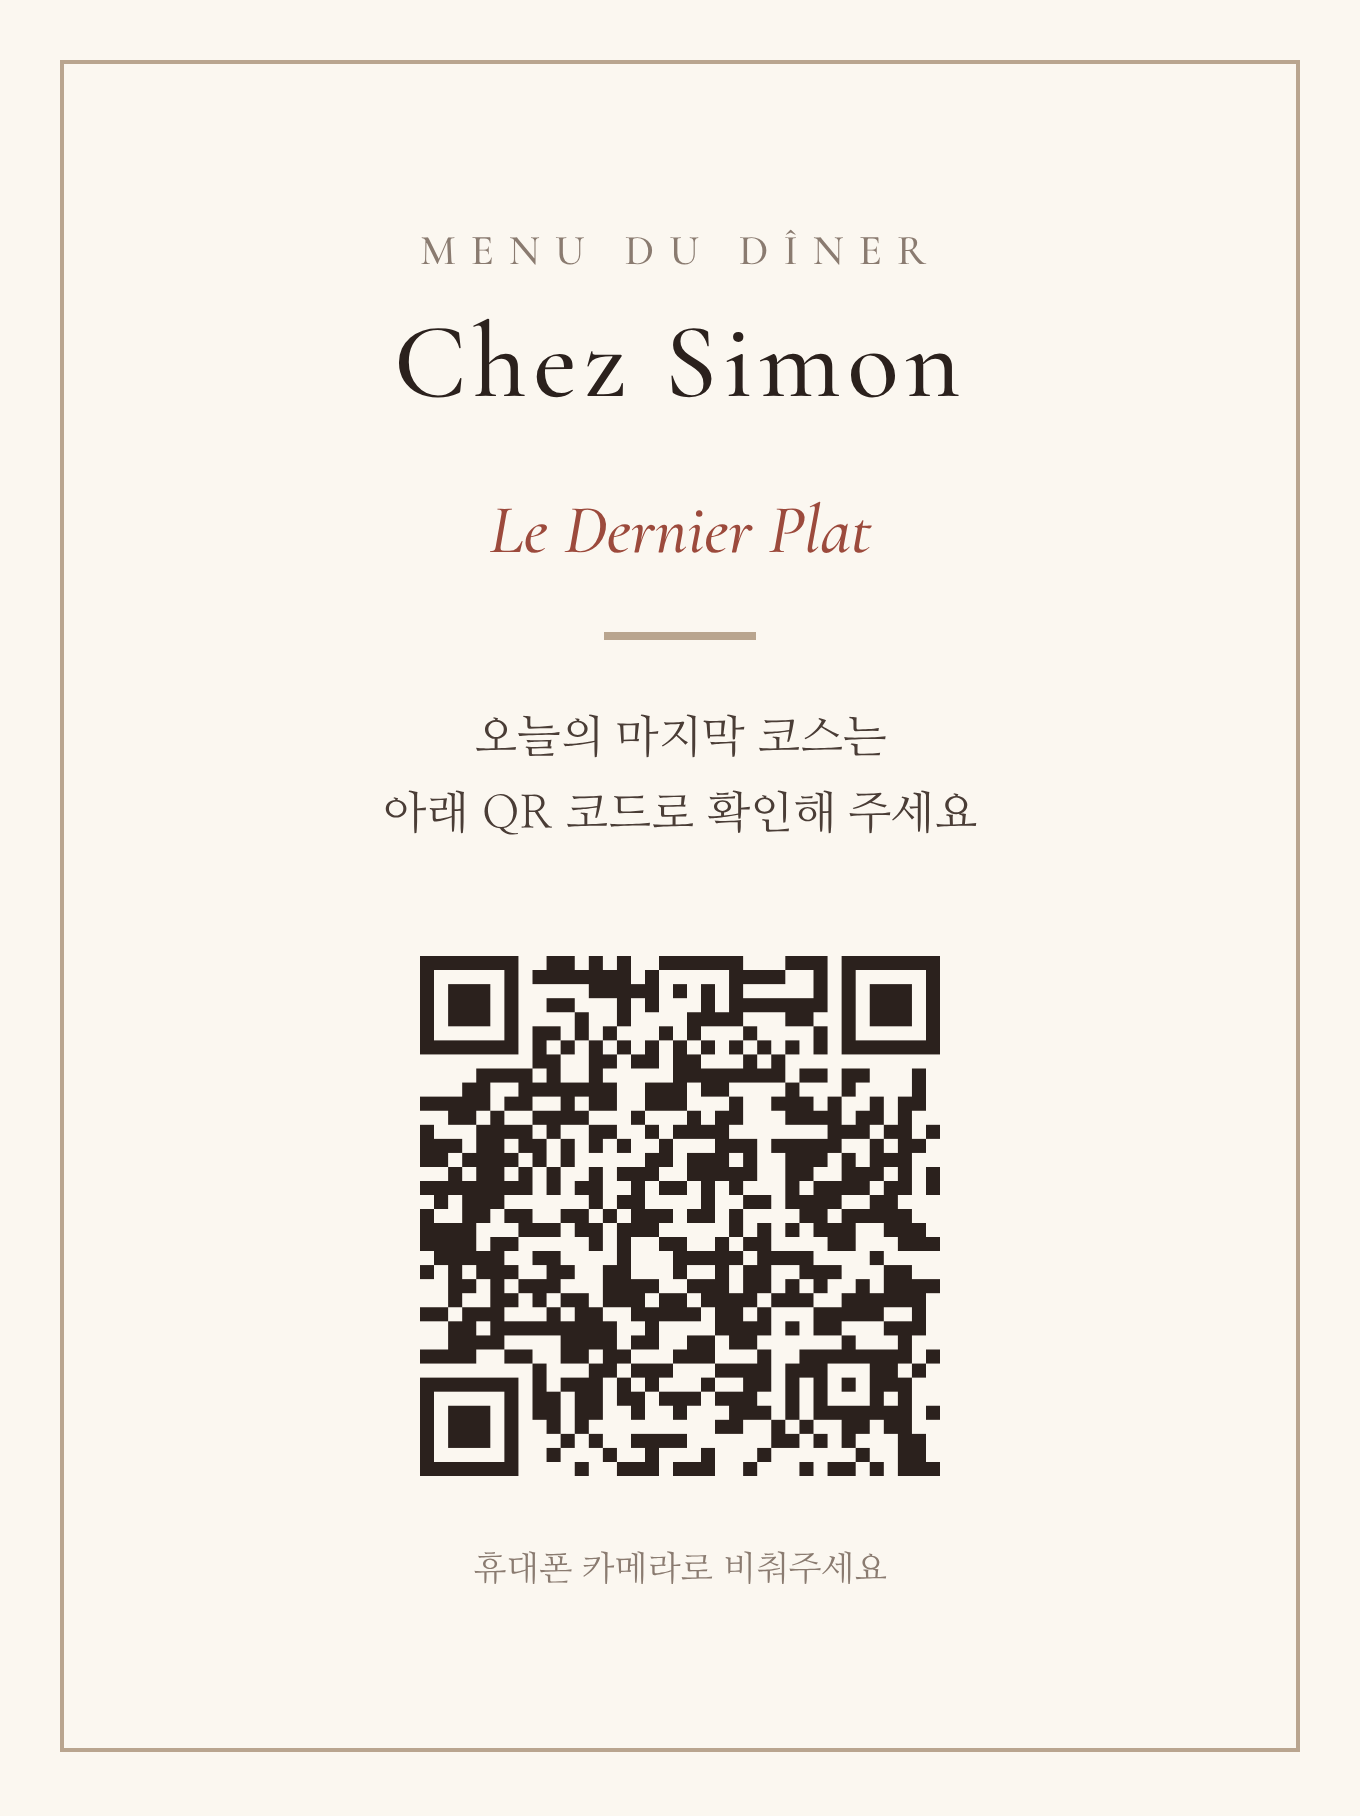
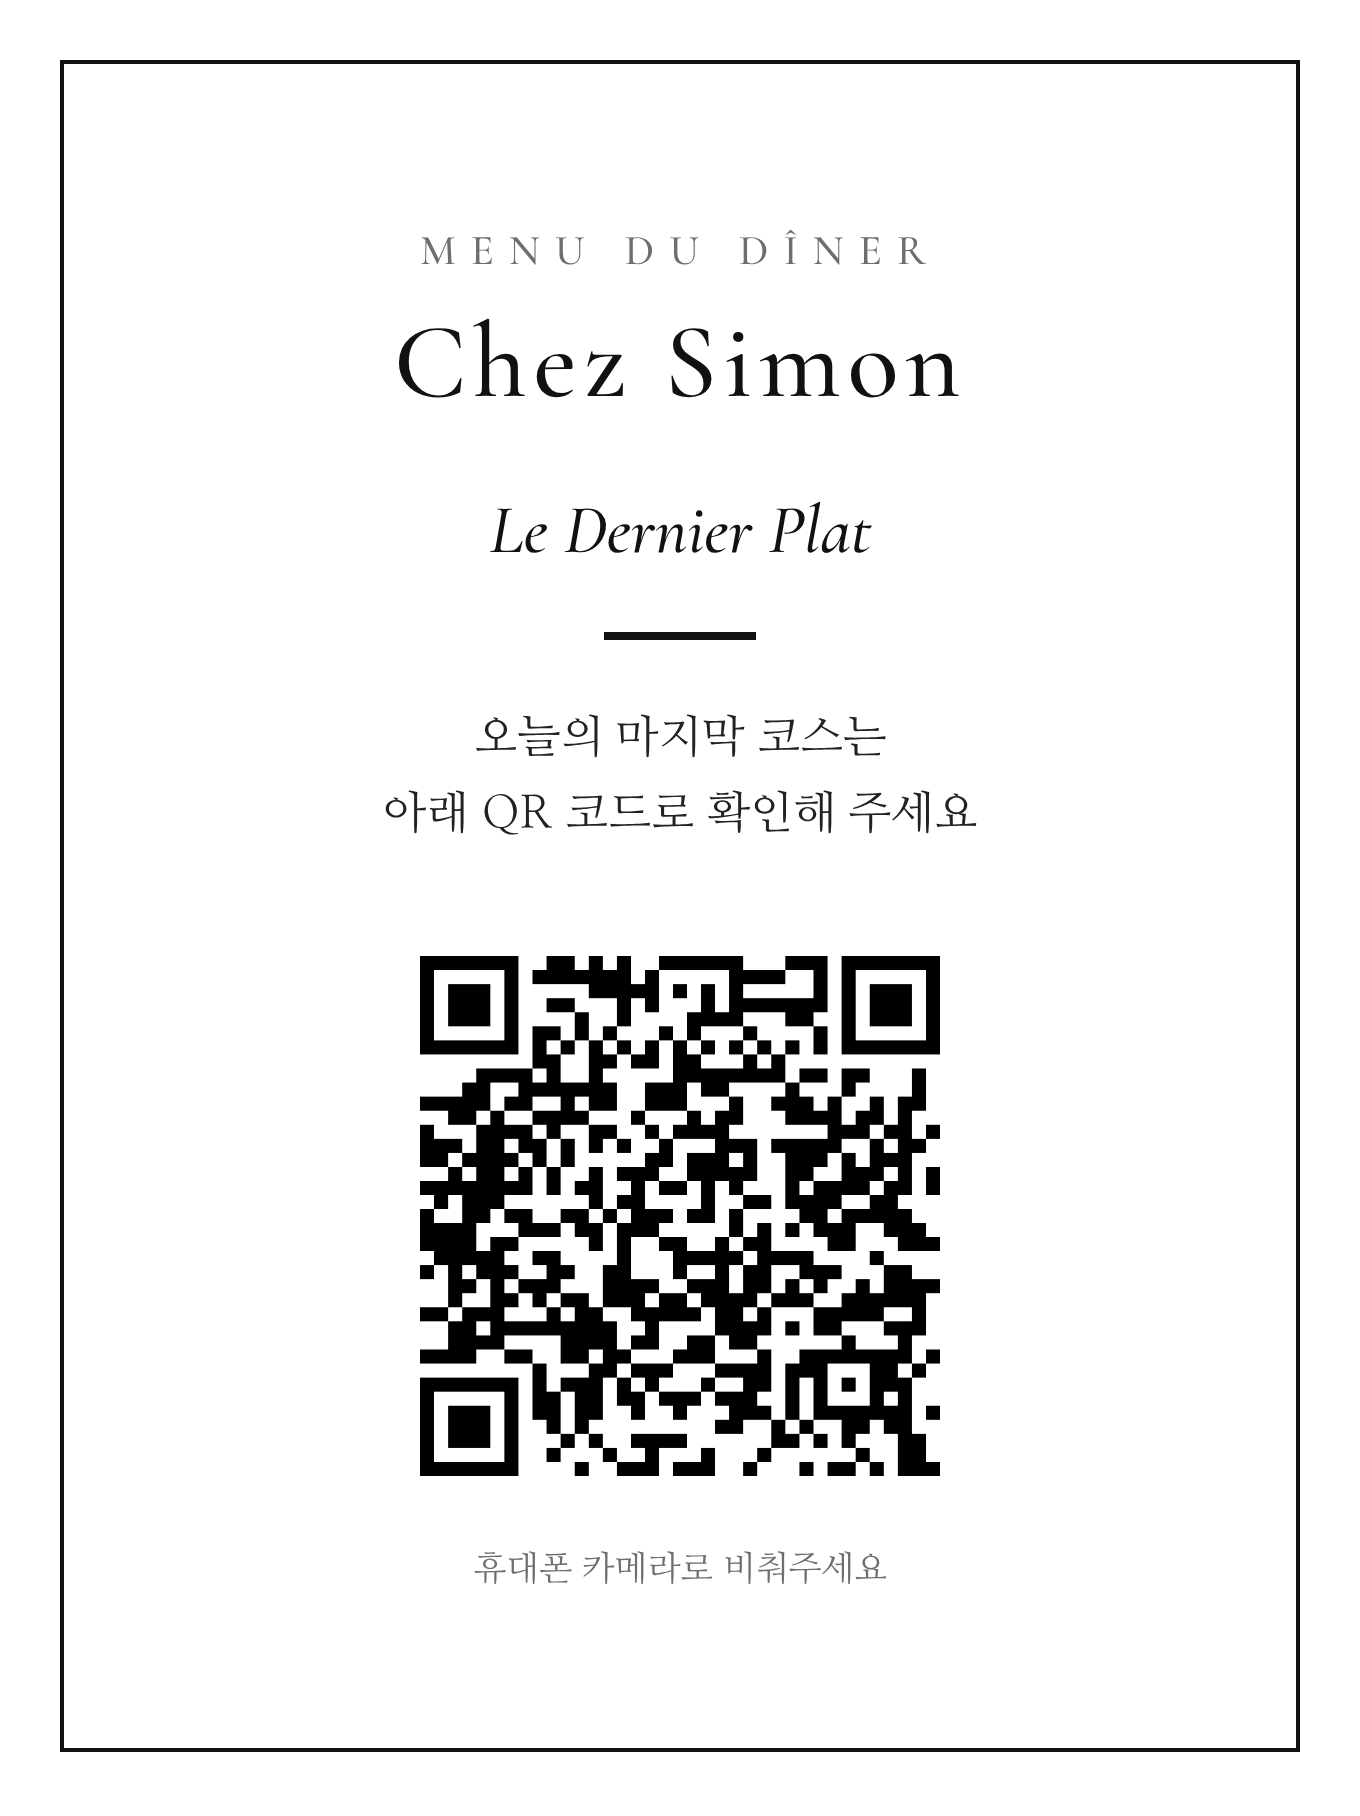
Switch menu page and QR card to white and black palette
Claude-Session: https://claude.ai/code/session_018uBD5v6mYpfrg2LWqCw87m

diff --git a/proposal/index.html b/proposal/index.html
@@ -6,15 +6,15 @@
 <meta name="robots" content="noindex, nofollow">
 <title>Chez Simon · Menu du Dîner</title>
 <link rel="preconnect" href="https://fonts.googleapis.com">
-<link href="https://fonts.googleapis.com/css2?family=Cormorant+Garamond:ital,wght@0,500;1,500&family=Nanum+Myeongjo:wght@400;700&family=Nanum+Pen+Script&display=swap" rel="stylesheet">
+<link href="https://fonts.googleapis.com/css2?family=Cormorant+Garamond:ital,wght@0,500;1,500&family=Nanum+Myeongjo:wght@400;700&display=swap" rel="stylesheet">
 <style>
   :root {
-    --paper: #f7f1e6;
-    --ink: #3b2f2a;
-    --muted: #8a7b70;
-    --line: #d9cbb8;
-    --accent: #9c4a3c;
-    --night: #120f0e;
+    --paper: #ffffff;
+    --ink: #111111;
+    --muted: #6e6e6e;
+    --line: #dcdcdc;
+    --accent: #111111;
+    --night: #000000;
   }
   * { box-sizing: border-box; margin: 0; padding: 0; }
   html, body { height: 100%; }
@@ -32,8 +32,7 @@
   .menu { max-width: 400px; width: 100%; text-align: center; }
   .eyebrow { font-size: 12px; letter-spacing: .3em; color: var(--muted); }
   h1 { font-size: 28px; font-weight: 700; margin: 12px 0 6px; }
-  .for { font-family: "Nanum Pen Script", cursive; font-size: 26px; color: var(--accent); }
-  .brand { font-family: "Cormorant Garamond", serif; font-size: 34px; font-weight: 500; letter-spacing: .08em; }
+    .brand { font-family: "Cormorant Garamond", serif; font-size: 34px; font-weight: 500; letter-spacing: .08em; }
   .fr { font-family: "Cormorant Garamond", serif; font-style: italic; font-size: 19px; color: var(--muted); }
   .course .ko { font-size: 16px; font-weight: 700; }
   .course .desc { font-size: 13px; color: var(--muted); margin-top: 4px; line-height: 1.6; }
@@ -42,12 +41,12 @@
   .course:last-of-type { border-bottom: none; }
   .course small { display: block; font-size: 11px; letter-spacing: .25em; color: var(--muted); margin-bottom: 6px; }
   .course p { font-size: 17px; }
-  .last { margin-top: 28px; padding: 24px 18px; border: 1px solid var(--accent); border-radius: 4px; }
+  .last { margin-top: 28px; padding: 24px 18px; border: 1px solid var(--accent); border-radius: 0; }
   .last small { color: var(--accent); }
   .last p { font-size: 18px; font-weight: 700; margin: 6px 0 4px; }
   .last span { font-size: 13px; color: var(--muted); }
   button.open {
-    margin-top: 18px; width: 100%; padding: 16px; border: none; border-radius: 4px;
+    margin-top: 18px; width: 100%; padding: 16px; border: none; border-radius: 0;
     background: var(--accent); color: #fff; font: inherit; font-size: 16px; font-weight: 700;
     cursor: pointer;
   }
@@ -55,7 +54,7 @@
 
   /* 로딩 */
   #loading { position: fixed; inset: 0; background: var(--paper); justify-content: center; text-align: center; z-index: 3; transition: opacity .8s; }
-  #loading p { font-family: "Nanum Pen Script", cursive; font-size: 30px; margin-top: 20px; }
+  #loading p { font-family: "Nanum Myeongjo", serif; font-size: 17px; letter-spacing: .05em; margin-top: 20px; }
   .dots span { display: inline-block; width: 8px; height: 8px; margin: 0 4px; border-radius: 50%; background: var(--accent); animation: blink 1.2s infinite; }
   .dots span:nth-child(2) { animation-delay: .2s; }
   .dots span:nth-child(3) { animation-delay: .4s; }
@@ -67,30 +66,30 @@
   #tapToPlay { position: absolute; padding: 14px 28px; border: 1px solid #fff; border-radius: 40px; background: transparent; color: #fff; font: inherit; font-size: 16px; }
 
   /* 엔딩 */
-  #ending { position: fixed; inset: 0; background: var(--night); color: #f7f1e6; justify-content: center; text-align: center; z-index: 4; opacity: 0; transition: opacity 2s; }
+  #ending { position: fixed; inset: 0; background: var(--night); color: #ffffff; justify-content: center; text-align: center; z-index: 4; opacity: 0; transition: opacity 2s; }
   #ending.show { opacity: 1; }
   #ending .ring { font-size: 44px; }
-  #ending p { font-family: "Nanum Pen Script", cursive; font-size: 34px; margin-top: 18px; line-height: 1.4; }
+  #ending p { font-family: "Nanum Myeongjo", serif; font-size: 26px; margin-top: 18px; line-height: 1.4; }
   .course[data-i] { cursor: pointer; position: relative; -webkit-tap-highlight-color: transparent; }
   .course[data-i]::after { content: "자세히 보기 ›"; display: block; margin-top: 8px; font-size: 11px; letter-spacing: .05em; color: var(--accent); }
-  .course[data-i]:active { background: rgba(156,74,60,.05); }
+  .course[data-i]:active { background: rgba(0,0,0,.04); }
 
   /* 메뉴 상세 */
-  #sheetBg { position: fixed; inset: 0; background: rgba(30,20,15,.45); opacity: 0; pointer-events: none; transition: opacity .3s; z-index: 5; }
+  #sheetBg { position: fixed; inset: 0; background: rgba(0,0,0,.5); opacity: 0; pointer-events: none; transition: opacity .3s; z-index: 5; }
   #sheet {
     position: fixed; left: 0; right: 0; bottom: 0; max-height: 88dvh; overflow-y: auto; z-index: 6;
     background: var(--paper); border-radius: 18px 18px 0 0; padding: 0 0 32px;
-    transform: translateY(100%); transition: transform .35s ease;
+    transform: translateY(100%); visibility: hidden; transition: transform .35s ease, visibility 0s .35s;
   }
   body.sheet-open #sheetBg { opacity: 1; pointer-events: auto; }
-  body.sheet-open #sheet { transform: none; }
+  body.sheet-open #sheet { transform: none; visibility: visible; transition: transform .35s ease; }
   .sheet-inner { max-width: 440px; margin: 0 auto; }
   .grip { width: 40px; height: 4px; border-radius: 2px; background: var(--line); margin: 10px auto 0; }
   .close { position: sticky; top: 0; display: flex; justify-content: flex-end; padding: 8px 12px 0; }
   .close button { border: none; background: none; font-size: 26px; line-height: 1; color: var(--muted); padding: 4px 8px; cursor: pointer; }
-  .visual { margin: 4px 24px 0; aspect-ratio: 4 / 3; border-radius: 6px; overflow: hidden; background: #efe6d6; display: flex; align-items: center; justify-content: center; }
+  .visual { margin: 4px 24px 0; aspect-ratio: 4 / 3; border-radius: 6px; overflow: hidden; background: #f4f4f4; display: flex; align-items: center; justify-content: center; }
   .visual img { width: 100%; height: 100%; object-fit: cover; }
-  .visual svg { width: 46%; height: auto; stroke: #b39c80; fill: none; stroke-width: 1.4; stroke-linecap: round; stroke-linejoin: round; }
+  .visual svg { width: 46%; height: auto; stroke: #8c8c8c; fill: none; stroke-width: 1.4; stroke-linecap: round; stroke-linejoin: round; }
   .sheet-head { text-align: center; padding: 22px 24px 6px; }
   .sheet-head small { font-size: 11px; letter-spacing: .3em; color: var(--muted); }
   .sheet-head h2 { font-size: 22px; margin: 8px 0 4px; }

diff --git a/card/card.html b/card/card.html
@@ -4,15 +4,15 @@
 @page { size: 90mm 120mm; margin: 0; }
 * { margin: 0; padding: 0; box-sizing: border-box; }
 html, body { width: 90mm; height: 120mm; }
-body { background: #fbf7f0; color: #2b211d; font-family: "Nanum Myeongjo", serif; display: flex; align-items: center; justify-content: center; }
-.card { width: 82mm; height: 112mm; border: .3mm solid #b9a58f; display: flex; flex-direction: column; align-items: center; justify-content: center; text-align: center; padding: 6mm; }
-.eyebrow { font-family: "Cormorant Garamond", serif; font-size: 8pt; letter-spacing: .35em; color: #8a7b70; }
+body { background: #ffffff; color: #111111; font-family: "Nanum Myeongjo", serif; display: flex; align-items: center; justify-content: center; }
+.card { width: 82mm; height: 112mm; border: .3mm solid #111111; display: flex; flex-direction: column; align-items: center; justify-content: center; text-align: center; padding: 6mm; }
+.eyebrow { font-family: "Cormorant Garamond", serif; font-size: 8pt; letter-spacing: .35em; color: #6e6e6e; }
 .brand { font-family: "Cormorant Garamond", serif; font-size: 20pt; letter-spacing: .06em; margin-top: 1.5mm; }
-.fr { font-family: "Cormorant Garamond", serif; font-style: italic; font-size: 13pt; color: #9c4a3c; margin-top: 4mm; }
-.line { width: 10mm; height: .3mm; background: #b9a58f; margin: 4mm auto; }
-.ko { font-size: 8.5pt; line-height: 1.7; color: #4a3d36; }
+.fr { font-family: "Cormorant Garamond", serif; font-style: italic; font-size: 13pt; color: #111111; margin-top: 4mm; }
+.line { width: 10mm; height: .3mm; background: #111111; margin: 4mm auto; }
+.ko { font-size: 8.5pt; line-height: 1.7; color: #222222; }
 img { width: 38mm; height: 38mm; margin-top: 5mm; }
-.hint { font-size: 6.5pt; color: #8a7b70; margin-top: 3mm; }
+.hint { font-size: 6.5pt; color: #6e6e6e; margin-top: 3mm; }
 </style></head><body><div class="card">
 <div class="eyebrow">MENU DU DÎNER</div>
 <div class="brand">Chez Simon</div>
